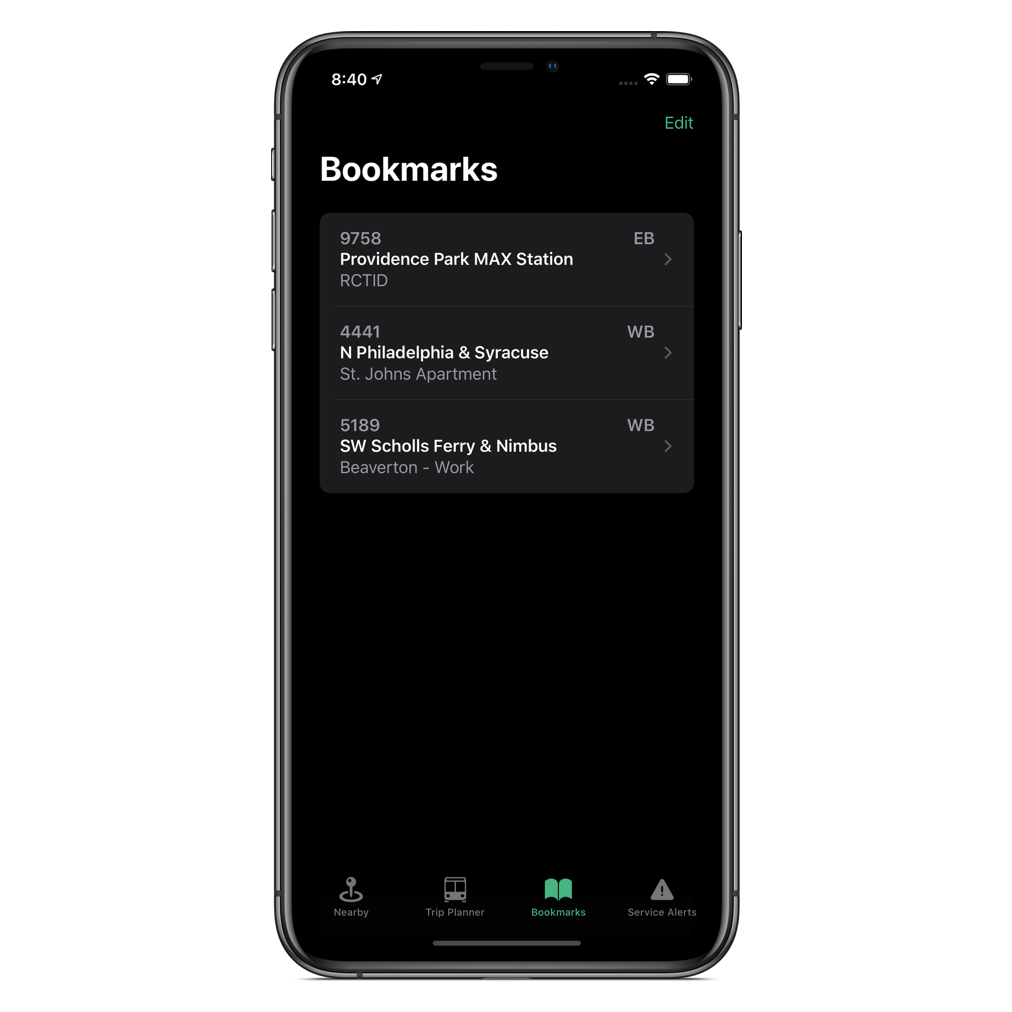
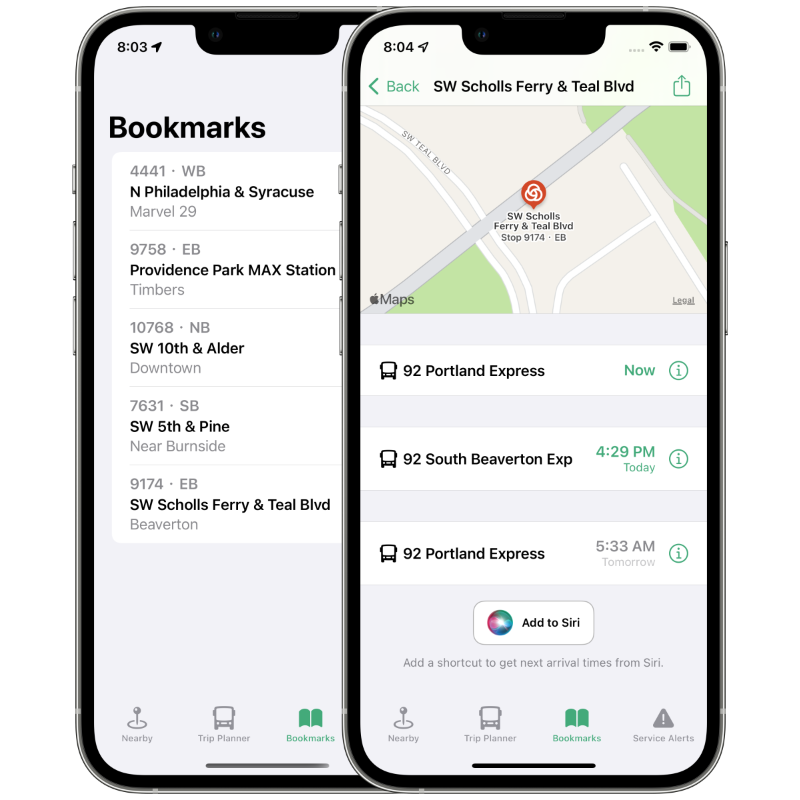
Updating iOS screenshots.

diff --git a/pdxtransit/ios/index.html b/pdxtransit/ios/index.html
@@ -69,16 +69,24 @@
 		
 			<div class="row align-items-center">
 				<div class="col-md">
-					<img srcset="images/pdxt_ios_nearby_arrivals.png, images/pdxt_ios_nearby_arrivals@2x.png 2x" 
-						src="images/pdxt_ios_nearby_arrivals@2x.png" 
-						style="width: 100%; padding-top: 10pt; padding-bottom: 10pt;" 
-						alt="PDX Transit on iPhone 11 Pro">
+					<img 
+						srcset="
+							images/pdxt_ios_nearby_arrivals.png, 
+							images/pdxt_ios_nearby_arrivals@2x.png 2x,
+							images/pdxt_ios_nearby_arrivals@3x.png 3x" 
+							src="images/pdxt_ios_nearby_arrivals@2x.png" 
+							style="width: 100%; padding-top: 10pt; padding-bottom: 10pt;" 
+							alt="PDX Transit on iPhone 13 Pro">
 				</div>
 				<div class="col-md">
-					<img srcset="../images/pdxt_splash.png, ../images/pdxt_splash@2x.png 2x, ../images/pdxt_splash@3x.png 3x" 
-						src="../images/pdxt_splash@2x.png"
-						style="max-width: 100%;"
-						alt="PDX Transit Logo Splash">
+					<img 
+						srcset="
+							../images/pdxt_splash.png, 
+							../images/pdxt_splash@2x.png 2x,
+							../images/pdxt_splash@3x.png 3x" 
+							src="../images/pdxt_splash@2x.png"
+							style="max-width: 100%;"
+							alt="PDX Transit Logo Splash">
 					<h4><span class="text-muted">for iOS & watchOS</span></h4>
 					<p>PDX Transit for iOS conveniently provides you with nearby transit stops, arrival times, transit directions, and service alerts using TriMet's open data web API and includes an companion Apple Watch app.</p>
 					<p><a href="https://itunes.apple.com/us/app/pdx-transit/id1010532756?mt=8"><img src="images/Download_on_the_App_Store_Badge_US.svg" alt="Download on the App Store"></a></p>
@@ -89,14 +97,19 @@
 			
 			<div class="row align-items-center" style="padding-top: 10pt; padding-bottom: 10pt;">
 				<div class="col-md">
-					<img srcset="images/pdxt_ios_nearby_arrivals.png,
-										 images/pdxt_ios_nearby_arrivals@2x.png 2x"
-										src="images/pdxt_ios_nearby_arrivals@2x.png" class="mx-auto d-block" style="width: 100%;"  alt="Nearby Transit Stops & Arrival Times">
+					<img 
+						srcset="
+							images/pdxt_ios_nearby_arrivals.png, 
+							images/pdxt_ios_nearby_arrivals@2x.png 2x,
+							images/pdxt_ios_nearby_arrivals@3x.png 3x" 
+							src="images/pdxt_ios_nearby_arrivals@2x.png"
+							class="mx-auto d-block" 
+							style="width: 100%;"
+							alt="Nearby Transit Stops & Arrival Times">
 				</div>
 				<div class="col-md">
 					<div class="d-flex justify-content-between align-items-center">
-						<h4 class="card-text">Nearby Transit Stops & Arrival Times</h4>
-						<p><span class="badge badge-success"> TriMet API </span></p>
+						<h4 class="card-text">Nearby Stops & Arrival Times</h4>
 					</div>
 					<div class="d-flex justify-content-between align-items-center">
 						<p class="text-muted">PDX Transit uses your current location to find nearby TriMet transit stops. Select a transit stop to get arrival times and other details. <b>Siri Shortcuts compatible</b>.</p>
@@ -106,14 +119,19 @@
 			
 			<div class="row align-items-center" style="padding-top: 10pt; padding-bottom: 10pt;">
 				<div class="col-md">
-					<img srcset="images/pdxt_ios_bookmarks.png,
-										 images/pdxt_ios_bookmarks@2x.png 2x"
-										src="images/pdxt_ios_bookmarks@2x.png" class="mx-auto d-block" style="width: 100%;" alt="iCloud Bookmarks">
+					<img 
+						srcset="
+							images/pdxt_ios_bookmarks.png,
+							images/pdxt_ios_bookmarks@2x.png 2x,
+							images/pdxt_ios_bookmarks@3x.png 3x"
+							src="images/pdxt_ios_bookmarks@2x.png" 
+							class="mx-auto d-block" 
+							style="width: 100%;" 
+							alt="iCloud Bookmarks">
 				</div>
 				<div class="col-md">
 					<div class="d-flex justify-content-between align-items-center">
 						<h4 class="card-text">iCloud Bookmarks</h4>
-						<p><span class="badge badge-info"> CloudKit </span></p>
 					</div>
 					<div class="d-flex justify-content-between align-items-center">
 						<p class="text-muted">Bookmark transit stops you frequent most. Bookmarks sync and stay up-to-date automatically across all your macOS, iOS, and watchOS devices.</p>
@@ -123,14 +141,19 @@
 			
 			<div class="row align-items-center" style="padding-top: 10pt; padding-bottom: 10pt;">
 				<div class="col-md">
-					<img srcset="images/pdxt_ios_alerts.png,
-										 images/pdxt_ios_alerts@2x.png 2x"
-										src="images/pdxt_ios_alerts@2x.png" class="mx-auto d-block" style="width: 100%;"  alt="Service Alerts">
+					<img 
+						srcset="
+							images/pdxt_ios_alerts.png,
+							images/pdxt_ios_alerts@2x.png 2x,
+							images/pdxt_ios_alerts@3x.png 3x"
+							src="images/pdxt_ios_alerts@2x.png" 
+							class="mx-auto d-block" 
+							style="width: 100%;"  
+							alt="Service Alerts">
 				</div>
 				<div class="col-md">
 					<div class="d-flex justify-content-between align-items-center">
 						<h4 class="card-text">Service Alerts</h4>
-						<p><span class="badge badge-success"> TriMet API </span></p>
 					</div>
 					<div class="d-flex justify-content-between align-items-center">
 						<p class="text-muted">View all service alerts published by TriMet grouped and sorted by transit line. <b>Siri Shortcuts compatible</b>.</p>
@@ -140,14 +163,18 @@
 			
 			<div class="row align-items-center" style="padding-top: 10pt; padding-bottom: 10pt;">
 				<div class="col-md">
-					<img srcset="images/pdxt_ios_trip.png,
-										 images/pdxt_ios_trip@2x.png 2x"
-										src="images/pdxt_ios_trip@2x.png" class="mx-auto d-block" style="width: 100%;"  alt="Trip Planner">
+					<img 
+						srcset="images/pdxt_ios_trip.png,
+							images/pdxt_ios_trip@2x.png 2x,
+							images/pdxt_ios_trip@3x.png 3x"
+							src="images/pdxt_ios_trip@2x.png" 
+							class="mx-auto d-block" 
+							style="width: 100%;"  
+							alt="Trip Planner">
 				</div>
 				<div class="col-md">
 					<div class="d-flex justify-content-between align-items-center">
 						<h4 class="card-text">Trip Planner</h4>
-						<p><span class="badge badge-success"> TriMet API </span></p>
 					</div>
 					<div class="d-flex justify-content-between align-items-center">
 						<p class="text-muted">Get transit directions using Trimet by entering either the Stop ID or an address.</p>

diff --git a/index.html b/index.html
@@ -151,9 +151,15 @@
 					<a href="https://itunes.apple.com/us/app/pdx-transit/id1010532756?mt=8"><img src="images/Download_on_the_App_Store_Badge_US.svg"></a>
 				</div>
 				<div class="col-md">
-					<img srcset="images/pdxt_ios_nearby_arrivals.png,
-										images/pdxt_ios_nearby_arrivals@2x.png 2x"
-										src="images/pdxt_ios_nearby_arrivals@2x.png" class="mx-auto d-block" style="width: 100%;" alt="PDX Transit on iPhone 11 Pro">
+					<img 
+						srcset="
+							pdxtransit/ios/images/pdxt_ios_nearby_arrivals.png, 
+							pdxtransit/ios/images/pdxt_ios_nearby_arrivals@2x.png 2x,
+							pdxtransit/ios/images/pdxt_ios_nearby_arrivals@3x.png 3x" 
+							src="pdxtransit/ios/images/pdxt_ios_nearby_arrivals@2x.png" 
+							class="mx-auto d-block" 
+							style="width: 100%;"
+							alt="PDX Transit on iPhone 13 Pro">
 				</div>
 			</div>
 			

diff --git a/pdxtransit/index.html b/pdxtransit/index.html
@@ -98,10 +98,16 @@
 					<a href="https://itunes.apple.com/us/app/pdx-transit/id1010532756?mt=8"><img src="../images/Download_on_the_App_Store_Badge_US.svg"></a>
 				</div>
 				<div class="col-md">
-					<img srcset="../images/pdxt_ios_nearby_arrivals.png, ../images/pdxt_ios_nearby_arrivals@2x.png 2x"
-						src="../images/pdxt_ios_nearby_arrivals@2x.png" 
-						class="mx-auto d-block" style="width: 100%;" 
-						alt="PDX Transit on iPhone 11 Pro">
+				
+					
+					<img 
+						srcset="
+							ios/images/pdxt_ios_nearby_arrivals.png, 
+							ios/images/pdxt_ios_nearby_arrivals@2x.png 2x,
+							ios/images/pdxt_ios_nearby_arrivals@3x.png 3x" 
+							src="ios/images/pdxt_ios_nearby_arrivals@2x.png" 
+							class="mx-auto d-block" style="width: 100%;" 
+							alt="PDX Transit on iPhone 11 Pro">
 				</div>
 			</div>
 			

diff --git a/pdxtransit/macos/index.html b/pdxtransit/macos/index.html
@@ -230,10 +230,14 @@
 			
 			<div class="row align-items-center">
 				<div class="col-md">
-					<img srcset="images/pdxt_ios_nearby_arrivals.png, images/pdxt_ios_nearby_arrivals@2x.png 2x" 
-						src="images/pdxt_ios_nearby_arrivals@2x.png" 
-						style="width: 100%; padding-top: 10pt; padding-bottom: 10pt;" 
-						alt="PDX Transit on iPhone 11 Pro">
+					<img 
+						srcset="
+							../ios/images/pdxt_ios_nearby_arrivals.png, 
+							../ios/images/pdxt_ios_nearby_arrivals@2x.png 2x, 
+							../ios/images/pdxt_ios_nearby_arrivals@3x.png 3x" 
+							src="../ios/images/pdxt_ios_nearby_arrivals@2x.png" 
+							style="width: 100%; padding-top: 10pt; padding-bottom: 10pt;" 
+							alt="PDX Transit on iPhone 11 Pro">
 				</div>
 				<div class="col-md">
 					<h4>PDX Transit for iOS</h4>
